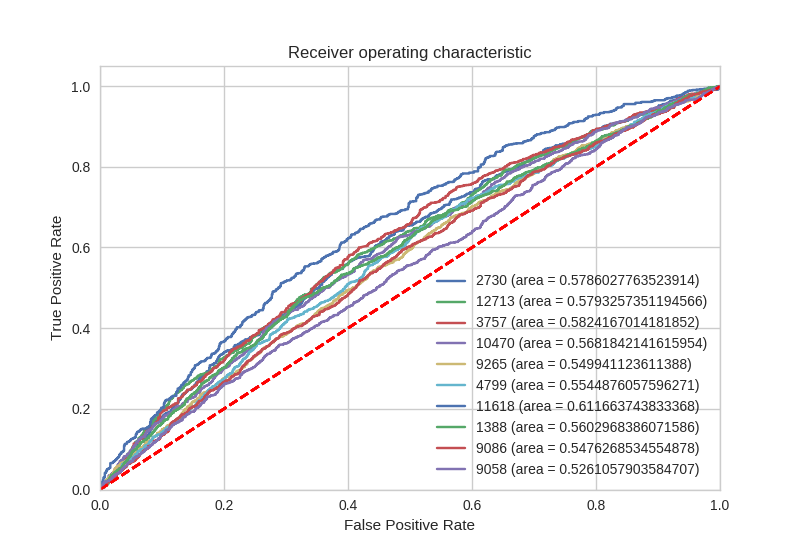
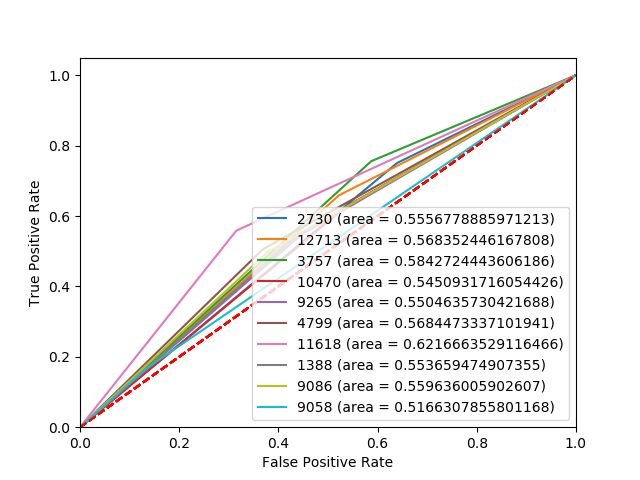
Introduced usage of prepared dataset

diff --git a/queue_imbalance/roc_results.py b/queue_imbalance/roc_results.py
@@ -1,3 +1,4 @@
+# results with different sizes of datasets
 results = {'11399': 0.59151574578931998, '2645': 0.55035670049721375, '9069': 0.54862448368600902,
            '9063': 0.55166193067132985, '9926': 0.56565445046202811, '1472': 0.54752392006309236,
            '9094': 0.56368270627961603, '9270': 0.53861757805266663, '10166': 0.54625242292074916,
@@ -32,5 +33,38 @@ results = {'11399': 0.59151574578931998, '2645': 0.55035670049721375, '9069': 0.
            '11714': 0.58230913027169839, '4575': 0.58784334332894983, '2028': 0.59395415778019822,
            '11946': 0.58835047144428065, '2813': 0.54583750207740089, '11869': 0.57356726730795282}
 
+results_even_data = {'11399': 0.61050980392156862, '2645': 0.5365235539654144, '9069': 0.53707702534209667,
+                     '9063': 0.52173367228446788, '9926': 0.55662996423865985, '1472': 0.53645241252999876,
+                     '9094': 0.57423017003559251, '9270': 0.55787802801094066, '10166': 0.55715216120464062,
+                     '9061': 0.52387553972916479, '2822': 0.57397678296158805, '2651': 0.56538285082404971,
+                     '2051': 0.60728009912792513, '1865': 0.58843173082981537, '1243': 0.62284144427001564,
+                     '4060': 0.54912769971914643, '1221': 0.58883557424837474, '2368': 0.59480785019578131,
+                     '12456': 0.53037147708512256, '12327': 0.60756358161660673, '2094': 0.5649995096597038,
+                     '9064': 0.53866694899303591, '9034': 0.58921618219676031, '2748': 0.58226180252461679,
+                     '9761': 0.57051983879385781, '1956': 0.57767005522088355, '12098': 0.62925266233154276,
+                     '11244': 0.53240580712063612, '1113': 0.57247588979989317, '10795': 0.62452941176470589,
+                     '13061': 0.53640661938534284, '10887': 0.5500325686324351, '11234': 0.61891732862606652,
+                     '9062': 0.54777887695496519, '1769': 0.57682537563653069, '7858': 0.59627397432275486,
+                     '4154': 0.57154324113216282, '4218': 0.59834264979896046, '13003': 0.53361898483849701,
+                     '9067': 0.55195645778170044, '10508': 0.57952941176470585, '2057': 0.57659302896416309,
+                     '12534': 0.5688438623946408, '1907': 0.58030789042838471, '4481': 0.59754040814085296,
+                     '4549': 0.54905876652919428, '4618': 0.54659999368028567, '3035': 0.54098469962072637,
+                     '11867': 0.53481833481833485, '4851': 0.58981934896569044, '2730': 0.55567788859712131,
+                     '12713': 0.568352446167808, '3757': 0.58427244436061865, '10470': 0.54509317160544257,
+                     '9265': 0.55046357304216875, '4799': 0.56844733371019407, '11618': 0.62166635291164662,
+                     '1388': 0.55365947490735501, '9086': 0.55963600590260698, '9058': 0.51663078558011677,
+                     '11583': 0.54629531575417412, '2050': 0.57183515482695813, '2197': 0.60097034448405839,
+                     '9268': 0.5550133619015104, '12552': 0.5344521859209741, '9065': 0.56662745098039213,
+                     '2602': 0.59004020984512928, '3161': 0.58480798192771088, '9074': 0.5396590066716086,
+                     '4736': 0.57165665209047722, '3459': 0.5624466549455045, '13113': 0.57658398087268381,
+                     '2290': 0.5856590424196787, '9269': 0.56188789658026128, '12059': 0.56235099441621184,
+                     '3879': 0.53567112408575823, '1229': 0.61365777080062789, '5836': 0.57816911349520039,
+                     '10484': 0.53920064657624533, '2890': 0.57071883430579085, '1694': 0.55382915503848584,
+                     '1080': 0.6027362285139678, '3107': 0.60681637247096931, '11038': 0.57613479190242678,
+                     '12417': 0.56334561897248092, '9266': 0.55134843581445514, '4320': 0.56534189108506416,
+                     '3022': 0.58711869501930258, '3388': 0.61055729984301421, '8080': 0.53735421579249243,
+                     '1431': 0.55498080309346687, '12255': 0.57352179644101309, '11714': 0.58152821783731223,
+                     '4575': 0.59054759210360874, '2028': 0.5875643278523911, '11946': 0.61614002770955345,
+                     '2813': 0.56232591213203376, '11869': 0.55909139044795086}
 
-#print(sorted(results.items(), key=lambda x: x[1]))
+# print(sorted(results.items(), key=lambda x: x[1]))

diff --git a/queue_imbalance/lob.py b/queue_imbalance/lob.py
@@ -1,6 +1,8 @@
+import os
+
 import pandas as pd
 
-from typing import Tuple
+from typing import Tuple, Sequence
 from datetime import datetime
 
 import matplotlib.pyplot as plt
@@ -56,7 +58,33 @@ def parse_data(filename: str) -> pd.DataFrame:
                       index=[p[0] for p in parsed_order_book], columns=['bid', 'ask'])
     return df
 
-def load_data(stock: str, data_dir=None, cv=False) -> Tuple[pd.DataFrame, pd.DataFrame]:
+
+def load_prepared_data(stock: str, data_dir=None, cv=False) -> Sequence[pd.DataFrame]:
+    if data_dir is None:
+        data_dir = 'data/prepared/'
+    df = pd.read_csv(os.path.join(data_dir, stock + '.csv'))
+    return prepare_dataset(stock, df[0:5050], cv=cv)
+
+
+def prepare_dataset(stock:str, df: pd.DataFrame, cv=False) -> Sequence[pd.DataFrame]:
+    idx = len(df) // 5
+    train = df.iloc[idx:len(df)]
+    test = df.iloc[0:idx]
+    if cv:
+        df_cv = train.iloc[len(train) - idx:len(train)]
+        train = train.iloc[0:len(train) - idx]
+
+    print('Training set length for {}: {}'.format(stock, len(train)))
+    print('Testing set length for {}: {}'.format(stock, len(test)))
+
+    if cv:
+        print('Cross-validation set length for {}: {}'.format(stock, len(df_cv)))
+        return train, df_cv, test
+    else:
+        return train, test
+
+
+def load_data(stock: str, data_dir=None, cv=False) ->  Sequence[pd.DataFrame]:
     if data_dir is None:
         data_dir = 'data/LOB/'
     train_dates = ['0901', '0916', '1001', '1016', '1101']
@@ -73,21 +101,7 @@ def load_data(stock: str, data_dir=None, cv=False) -> Tuple[pd.DataFrame, pd.Dat
     df = df.sort_index()
     df = prepare_dataframe(df)
     
-    idx = len(df)//5
-    train = df.iloc[idx:len(df)]
-    test = df.iloc[0:idx]
-    if cv:
-        df_cv = train.iloc[len(train)-idx:len(train)]
-        train = train.iloc[0:len(train)-idx]
-        
-    print('Training set length for {}: {}'.format(stock, len(train)))
-    print('Testing set length for {}: {}'.format(stock, len(test)))
-    
-    if cv:
-        print('Cross-validation set length for {}: {}'.format(stock, len(df_cv)))
-        return train, df_cv, test
-    else:
-        return train, test
+    return prepare_dataset(stock, df, cv=cv)
 
 
 def get_bid_price(df: pd.DataFrame, index: int) -> float:
@@ -207,13 +221,17 @@ def plot_density_imbalance_vs_mid(df, st, end):
     plt.figure()
 
 
-def plot_roc(df: pd.DataFrame, clf, stock='', title='') -> float:
+def plot_roc(df: pd.DataFrame, clf, stock='', title='', c=None, linestyle=None) -> float:
     prediction = clf.predict(df['queue_imbalance'].values.reshape(-1, 1))
 
     roc_score = roc_auc_score(df['mid_price_indicator'], prediction)
     fpr, tpr, thresholds = roc_curve(df['mid_price_indicator'].values, prediction)
 
-    plt.plot(fpr, tpr, label='{} (area = {})'.format(stock, roc_score))
+    if c and linestyle:
+        plt.plot(fpr, tpr, label='{} (area = {})'.format(stock, roc_score), c=c, linestyle=linestyle)
+    else:
+        plt.plot(fpr, tpr, label='{} (area = {})'.format(stock, roc_score))
+
     plt.plot([0, 1], [0, 1], 'r--')
     plt.xlim([0.0, 1.0])
     plt.ylim([0.0, 1.05])

diff --git a/queue_imbalance/roc.py b/queue_imbalance/roc.py
@@ -20,7 +20,7 @@ plt.figure()
 for s in stocks:
     try:
         print('for', s)
-        d, d_test = lob.load_data(s, data_dir='data/INDEX/')
+        d, d_test = lob.load_prepared_data(s)
 
         print('performing regressions', s)
         reg = lob.logistic_regression(d, 0, len(d))
